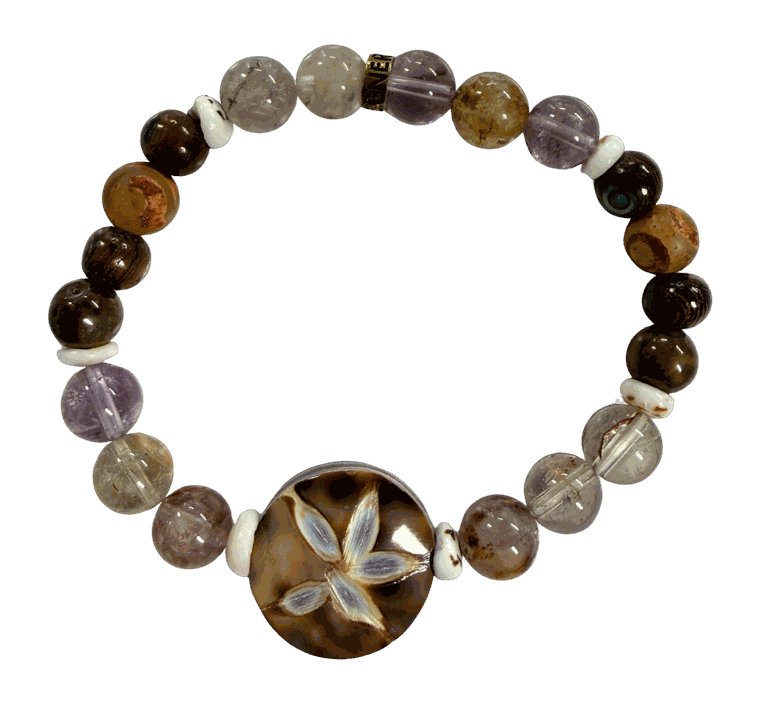
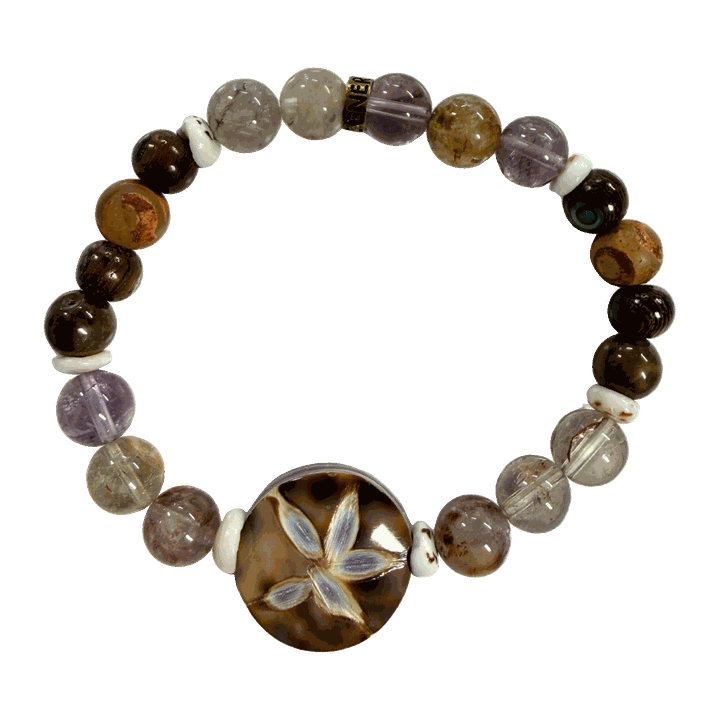
Centre the bracelets, and no more crystals on black
Two things from review.

The Protection bracelet sat right of centre in its card. The cause was in the
image, not the CSS: quantising with dithering left a scatter of near-invisible
pixels outside the piece, and those decided where the alpha bounding box was —
135px of padding on one side against 94 on the other. Stragglers under 12 alpha
are cleared before measuring now, dithering is off, and every piece is pasted
dead centre on a square canvas. A 1:1 card and five different silhouettes only
line up if the sources are square. Measured: all five within two pixels.

And two crystals were sitting on black. Protection and Calm were pulling from
assets/img/thumbs, which are renders of the 3D scans on a navy ground — the
one thing the photography rule on this project forbids. Protection is the same
crystal, cut out, which already existed locally. The Agate Geode Slice only
exists as that dark render and is not in stock upstream either, so Calm leads
with the Blue Sky Agate Point instead: same price, same intention, in stock,
already cut out. No thumbs references left in any ladder.

Changed region(s): [[0.0611, 0.0625, 0.9472, 0.9375]]

diff --git a/intention/calm/index.html b/intention/calm/index.html
@@ -172,9 +172,9 @@ p{text-wrap:pretty;}
     </div>
     <div class="cards">
       <div class="rcard"><span class="tag">Start here</span>
-        <img src="../../assets/img/thumbs/calm.jpg" alt="Agate Geode Slice" loading="lazy">
-        <strong>Agate Geode Slice</strong><span class="why">Banded, slow-formed agate — a soft visual pause.</span><span class="price">$48.88</span>
-        <button class="radd" type="button" data-id="calm" data-n="Agate Geode Slice" data-p="48.88" data-img="/assets/img/thumbs/calm.jpg" data-link="/gems/">Add to Bag</button></div>
+        <img src="../../assets/img/products/blue-agate.png" alt="Blue Sky Agate Point" loading="lazy">
+        <strong>Blue Sky Agate Point</strong><span class="why">Soft blue banding in a standing point &mdash; a quiet horizon for desk or bedside.</span><span class="price">$48.88</span>
+        <button class="radd" type="button" data-id="blue-agate" data-n="Blue Sky Agate Point" data-p="48.88" data-img="/assets/img/products/blue-agate.png" data-link="/gems/">Add to Bag</button></div>
       <div class="rcard"><span class="tag">Wear it</span>
         <img src="../../assets/img/jewelry/calm.png" alt="Blue Lace Agate Bracelet" loading="lazy">
         <strong>Blue Lace Agate Bracelet</strong><span class="why">Soft blue banding, kept close for the moments that need it.</span><span class="price">$62.88</span>

diff --git a/intention/protection/index.html b/intention/protection/index.html
@@ -172,9 +172,9 @@ p{text-wrap:pretty;}
     </div>
     <div class="cards">
       <div class="rcard"><span class="tag">Start here</span>
-        <img src="../../assets/img/thumbs/protection.jpg" alt="Black Tourmaline" loading="lazy">
+        <img src="../../assets/img/products/protection.png" alt="Black Tourmaline" loading="lazy">
         <strong>Black Tourmaline</strong><span class="why">The classic boundary crystal for entries, desks and thresholds.</span><span class="price">$8.88</span>
-        <button class="radd" type="button" data-id="protection" data-n="Black Tourmaline" data-p="8.88" data-img="/assets/img/thumbs/protection.jpg" data-link="/gems/">Add to Bag</button></div>
+        <button class="radd" type="button" data-id="protection" data-n="Black Tourmaline" data-p="8.88" data-img="/assets/img/products/protection.png" data-link="/gems/">Add to Bag</button></div>
       <div class="rcard"><span class="tag">Wear it</span>
         <img src="../../assets/img/jewelry/protection.png" alt="Protection Crystal Bracelet" loading="lazy">
         <strong>Protection Crystal Bracelet</strong><span class="why">Black tourmaline and hematite, worn where you need the boundary.</span><span class="price">$26.88</span>
